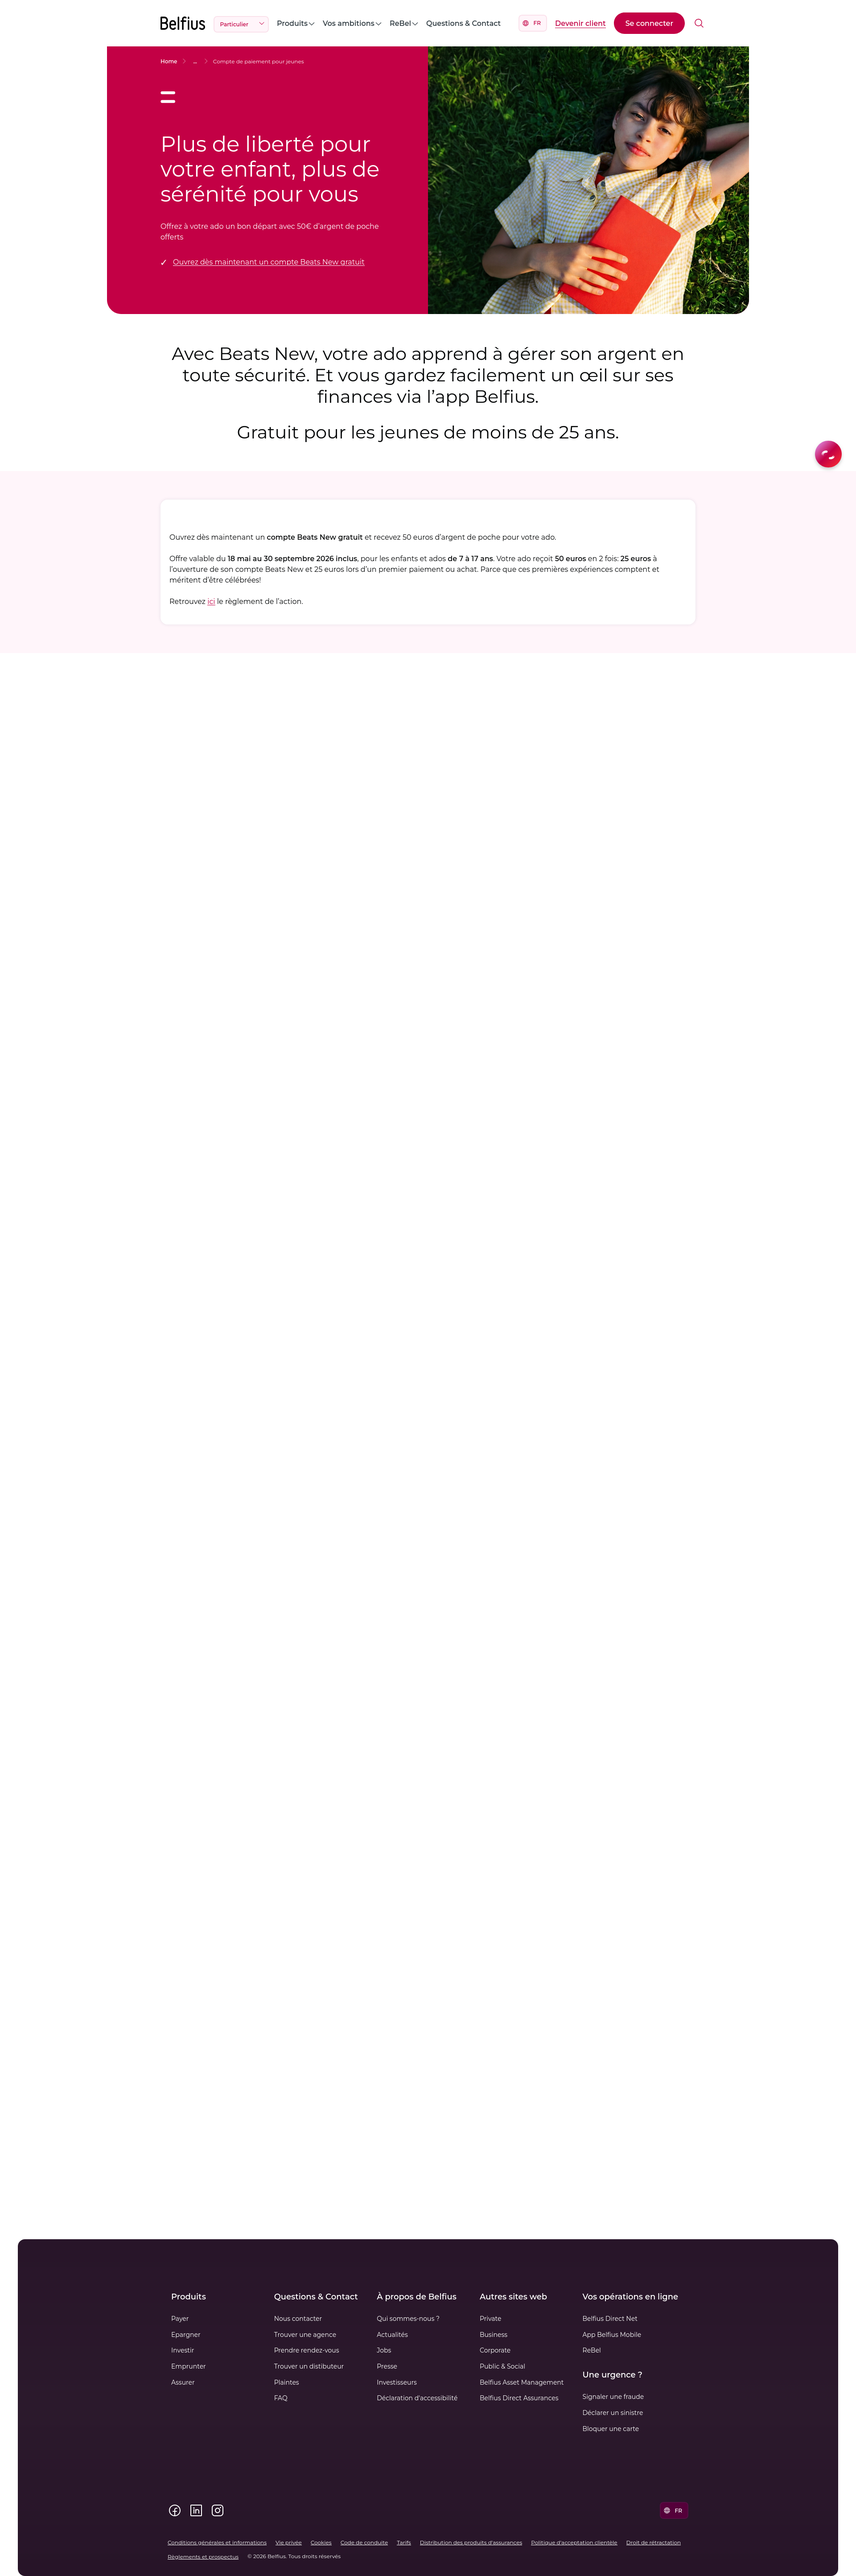
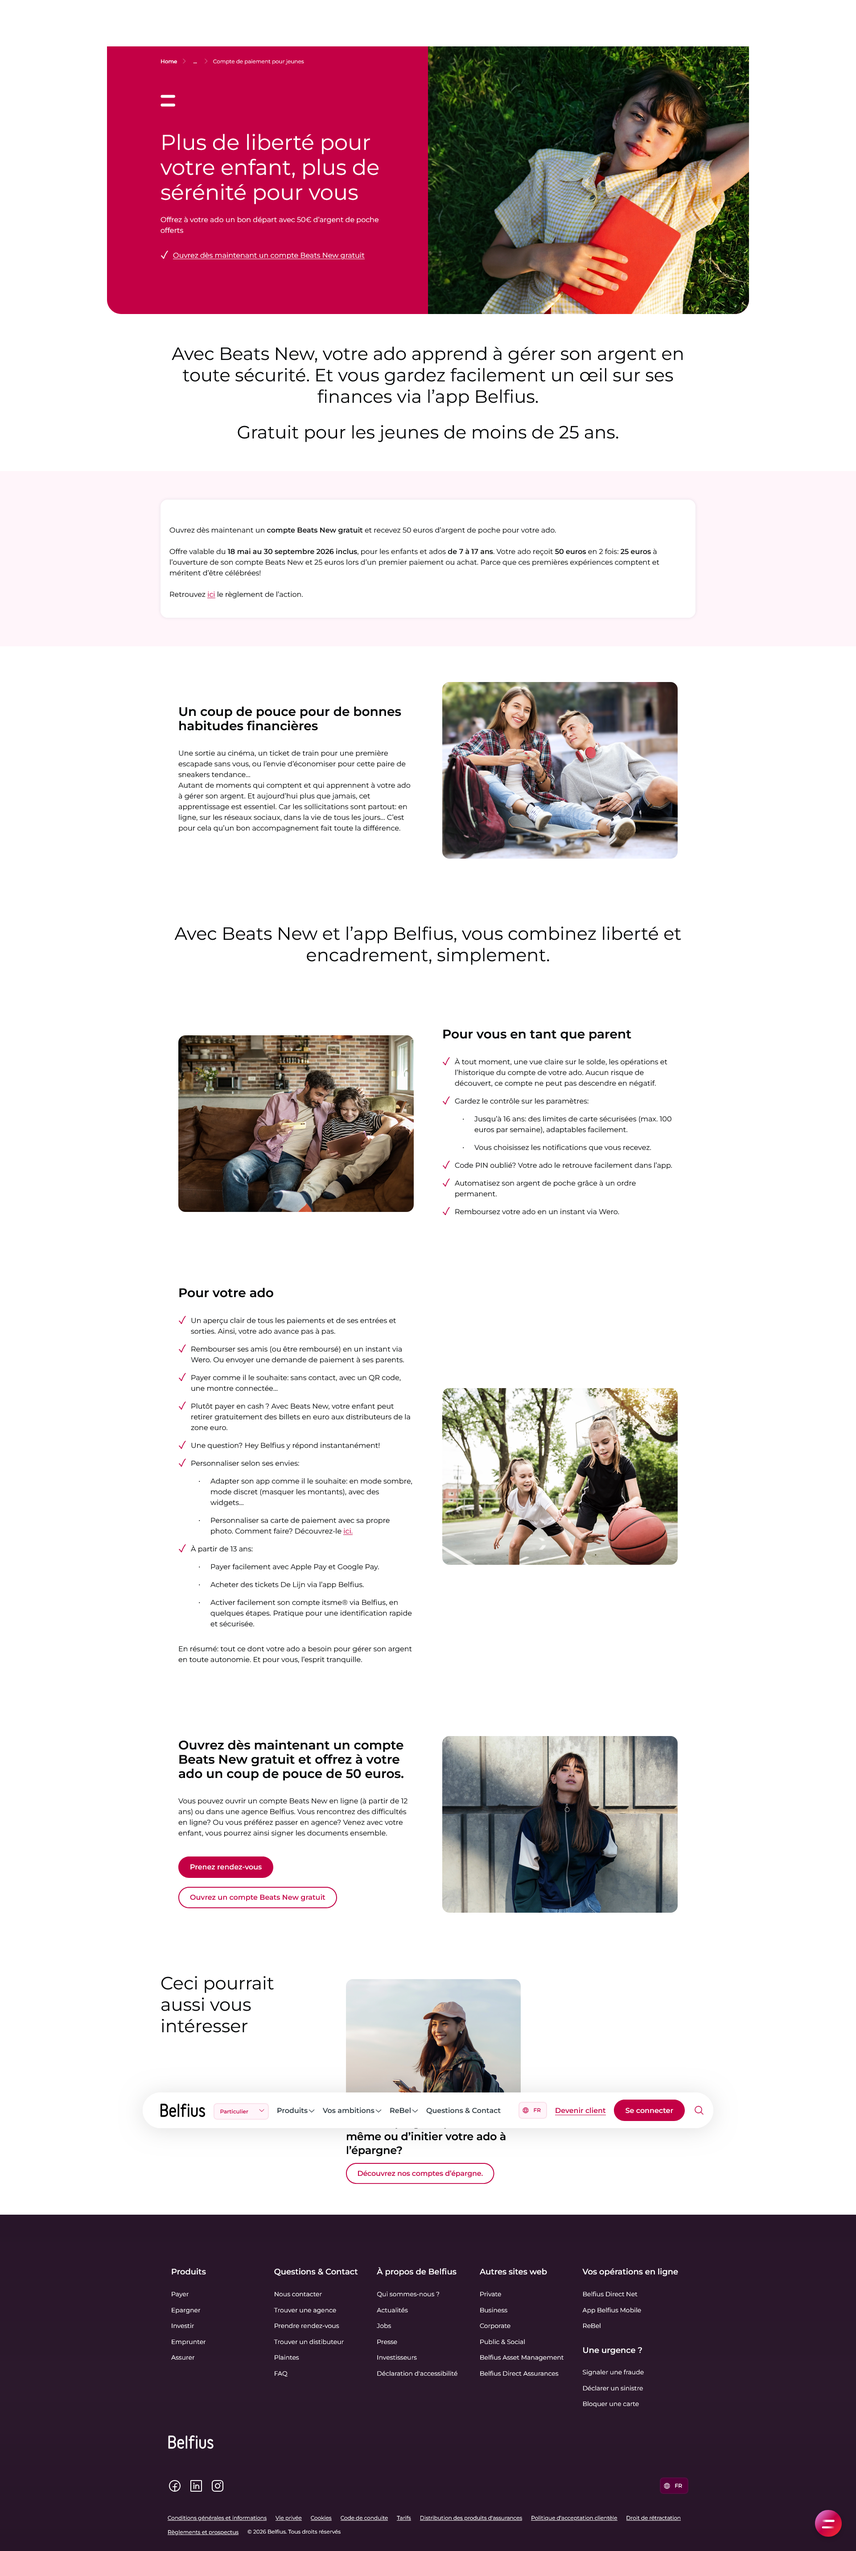
belfius screenshot full page working

diff --git a/src/cookies.py b/src/cookies.py
@@ -3,6 +3,65 @@ import re
 
 def handle_cookie_banner(page):
     """Finds, logs, and clicks cookie banners across OneTrust, ING, BNP Paribas Fortis, and KBC."""
+    # --------------------------------------------------
+    # Scroll through the page
+    # --------------------------------------------------
+    #
+    # Some websites use lazy loading.
+    # We simulate a progressive scroll so that images
+    # and other dynamic content have a chance to load.
+    #
+
+    print()
+    print("===== SCROLLING PAGE =====")
+
+    page.evaluate(
+        """
+        async () => {
+
+            await new Promise((resolve) => {
+
+                let totalHeight = 0;
+                const distance = 500;
+                const delay = 500;
+
+                const timer = setInterval(() => {
+
+                    window.scrollBy(
+                        0,
+                        distance
+                    );
+
+                    totalHeight += distance;
+
+                    if (
+                        totalHeight >=
+                        document.body.scrollHeight
+                    ) {
+                        clearInterval(timer);
+                        resolve();
+                    }
+
+                }, delay);
+            });
+        }
+        """
+    )
+
+    # Give lazy-loaded elements a little more time
+    # to appear after scrolling.
+
+    page.wait_for_timeout(3_000)
+
+    final_scroll_height = page.evaluate(
+        "document.body.scrollHeight"
+    )
+
+    print(
+        "Final scroll height:",
+        final_scroll_height
+    )
+
     # 1. High-Precision ID & Component Selectors (OneTrust, ING Web Components, Standard ARIA roles)
     known_cookie_selectors = [
         "#onetrust-accept-btn-handler",  # Universal OneTrust Accept ID (BNP, KBC, etc.)
@@ -11,6 +70,7 @@ def handle_cookie_banner(page):
         "ing-button:has-text('Accepteer')",  # ING Dutch component
         "ing-button:has-text('Accepter')",  # ING French component
     ]
+
 
     for selector in known_cookie_selectors:
         trigger = page.locator(selector).first
